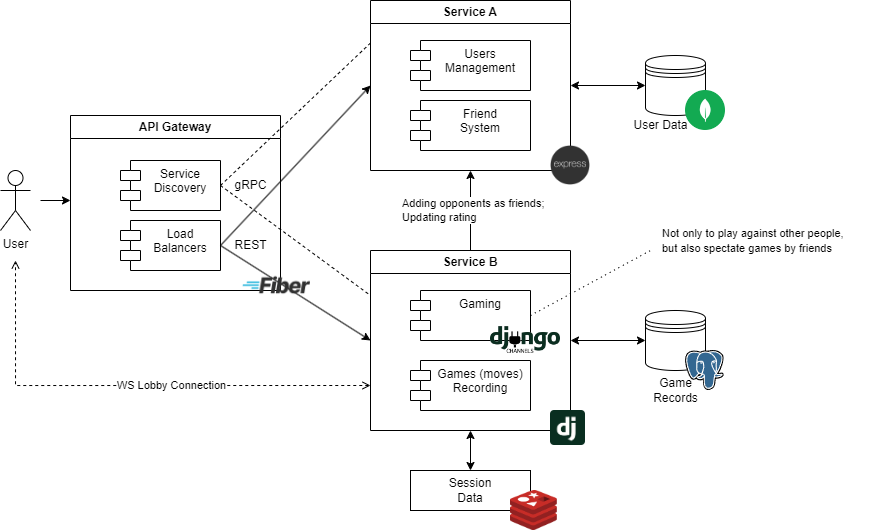
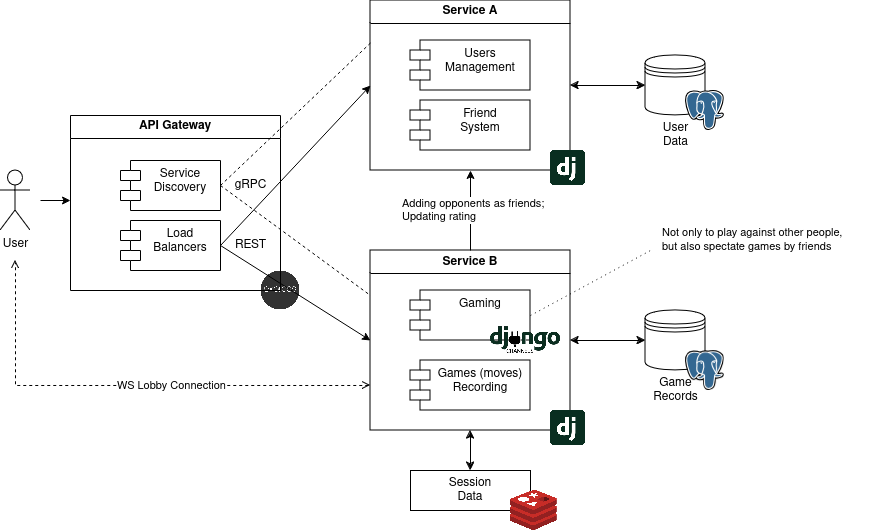
Checkpoint I last fix

diff --git a/README.md b/README.md
@@ -16,9 +16,9 @@
 
 ### Technology Stack and Communication Patterns
 
-- Service A (**JS**): **Express** + **MongoDB** (a common combination)
-- Service B (**Python**): **Django** + **PostgreSQL** (a common combination) + **Dj Channels** (WS) + **Redis** (Channels storage)
-- API Gateway (**Go**): **Fiber**
+- Service A (**Python**): **Django** + **MongoDB** (a common combination)
+- Service B (**Python**): **Django** + **MongoDB** (a common combination) + **Dj Channels** (WS) + **Redis** (Channels storage)
+- API Gateway (**JS**): **Express**
 - Inter-service communication: RESTful APIs (CRUD) and gRPC (service discovery)
 
 ### Data Management Design
@@ -146,4 +146,4 @@
 
 ### Deployment & Scaling
 
-Usage of Docker (containerization), Docker Compose (running multi-container applications), Kubernetes (orchestration), and stuff
+Usage of Docker (containerization), Docker Compose (running multi-container applications)
